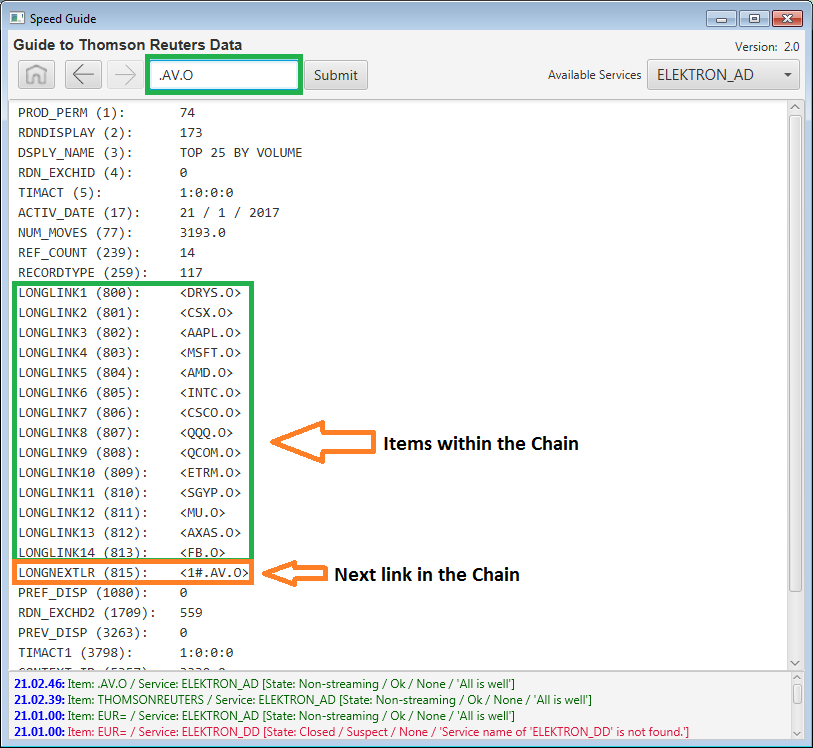
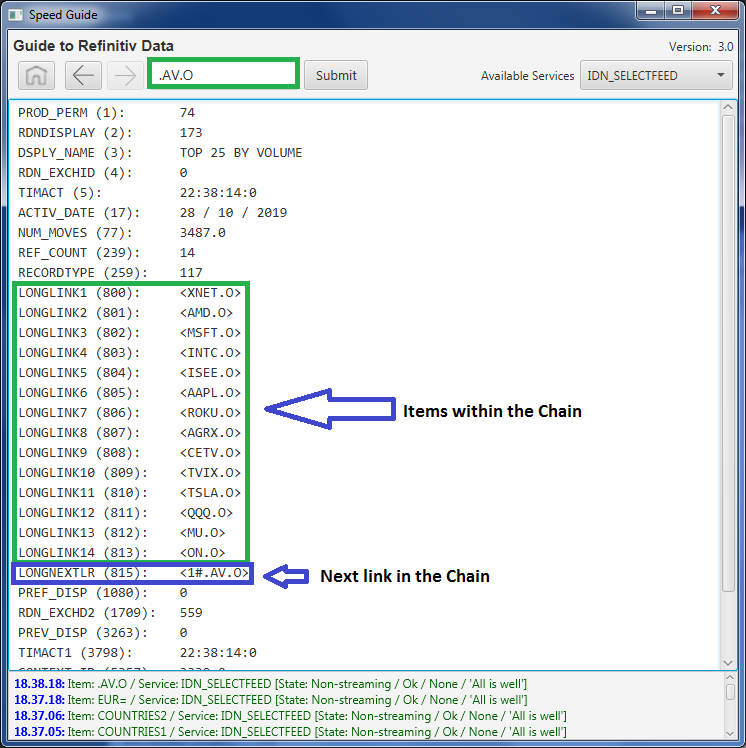
Change branding to Refinitiv throughout interface.

Changed region(s): [[0.0, 0.0, 1.0, 1.0]]

diff --git a/README.md b/README.md
@@ -12,7 +12,7 @@ The Speed Guide tool registers for Snapshot only data content (i.e, non-streamin
 
 ## Utility download
 
-The executable program and Readme is available for Download within the [Refinitiv Developer Platform](https://developers.refinitiv.com/system/files/SpeedGuide_3.0_0.zip).
+The executable program and Readme is available for Download within the [Refinitiv Developer Platform](https://developers.refinitiv.com/system/files/SpeedGuide_3.0.zip).
 
 ## Running the Utility
 
